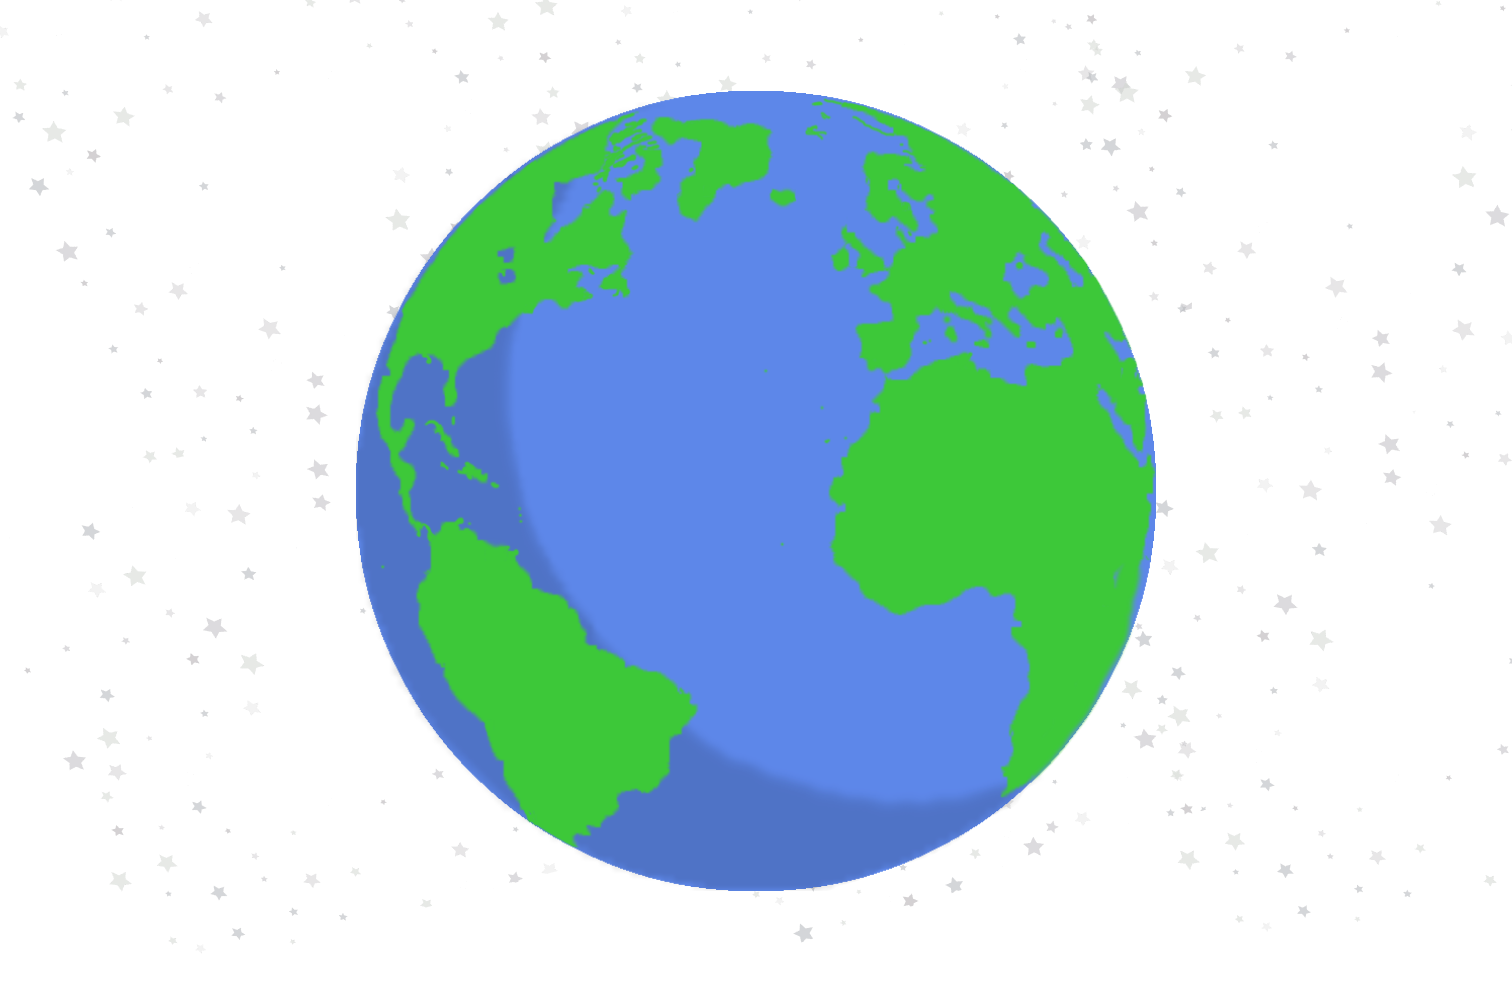
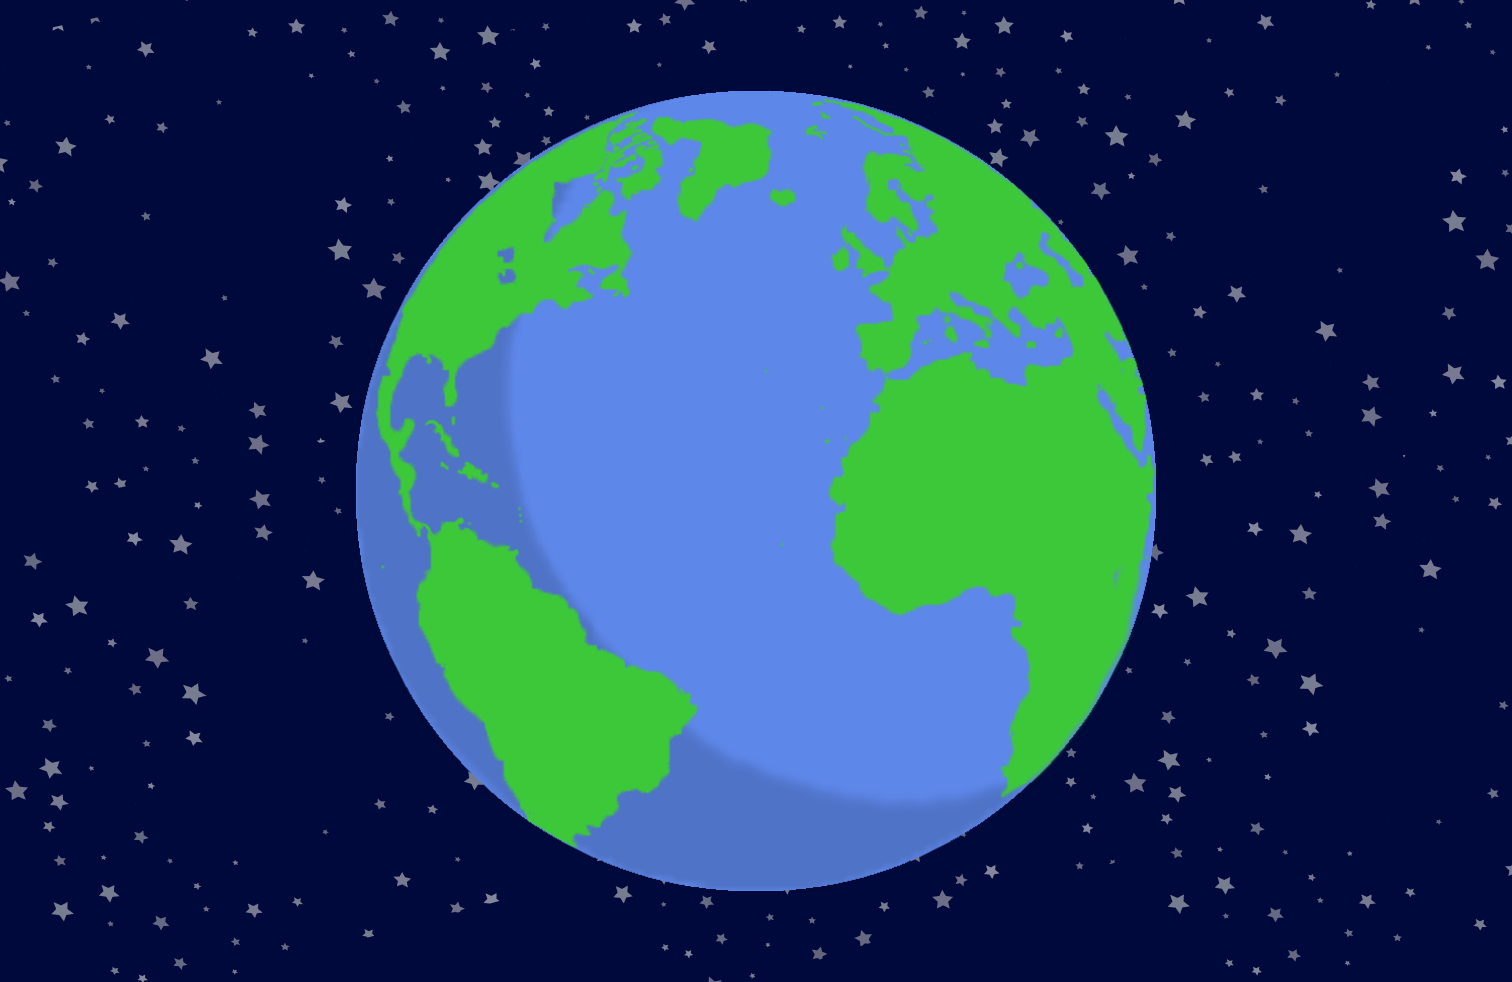
Swap back to png
Svg image files took awhile to load for background

diff --git a/src/pages/Resources/Resources.jsx b/src/pages/Resources/Resources.jsx
@@ -10,7 +10,7 @@ import Navbar from "../../components/Navbar";
 
 const Resources = () => {
     return (
-        <div className="resources" style={{ backgroundImage: 'url("/download.svg")', backgroundSize: 'cover', backgroundPosition: 'center', height: '100%' }}>
+        <div className="resources" style={{ backgroundImage: 'url("/downloadBackground.png")', backgroundSize: 'cover', backgroundPosition: 'center', height: '100%' }}>
             <Helmet bodyAttributes={{style: 'background-color: #00093B'}}/>
             <Navbar></Navbar>
             <div className="resources-body">

diff --git a/src/pages/Privacy/Privacy.jsx b/src/pages/Privacy/Privacy.jsx
@@ -5,7 +5,7 @@ import Navbar from "../../components/Navbar";
 
 const Privacy = () => {
     return (
-        <div className="privacy" style={{ backgroundImage: 'url("/privacy.svg")', backgroundSize: 'cover', backgroundPosition: 'center', height: '100%'}}>
+        <div className="privacy" style={{ backgroundImage: 'url("/privacyBackground.png")', backgroundSize: 'cover', backgroundPosition: 'center', height: '100%'}}>
             <Helmet bodyAttributes={{style: 'background-color : #00093B'}}/>
             <Navbar></Navbar>
             <div className="privacy-body">

diff --git a/src/pages/About/About.jsx b/src/pages/About/About.jsx
@@ -5,7 +5,7 @@ import Navbar from "../../components/Navbar";
 
 const About = () => {
     return (
-        <div classname="about" style={{ backgroundImage: 'url("/About.svg")', backgroundSize: 'cover', backgroundPosition: 'center', height: '100%' }}>
+        <div classname="about" style={{ backgroundImage: 'url("/aboutBackground.png")', backgroundSize: 'cover', backgroundPosition: 'center', height: '100%' }}>
             <Helmet bodyAttributes={{style: 'background-color : #00093B'}}/>
             <Navbar></Navbar>
             <div className="about-body" >
